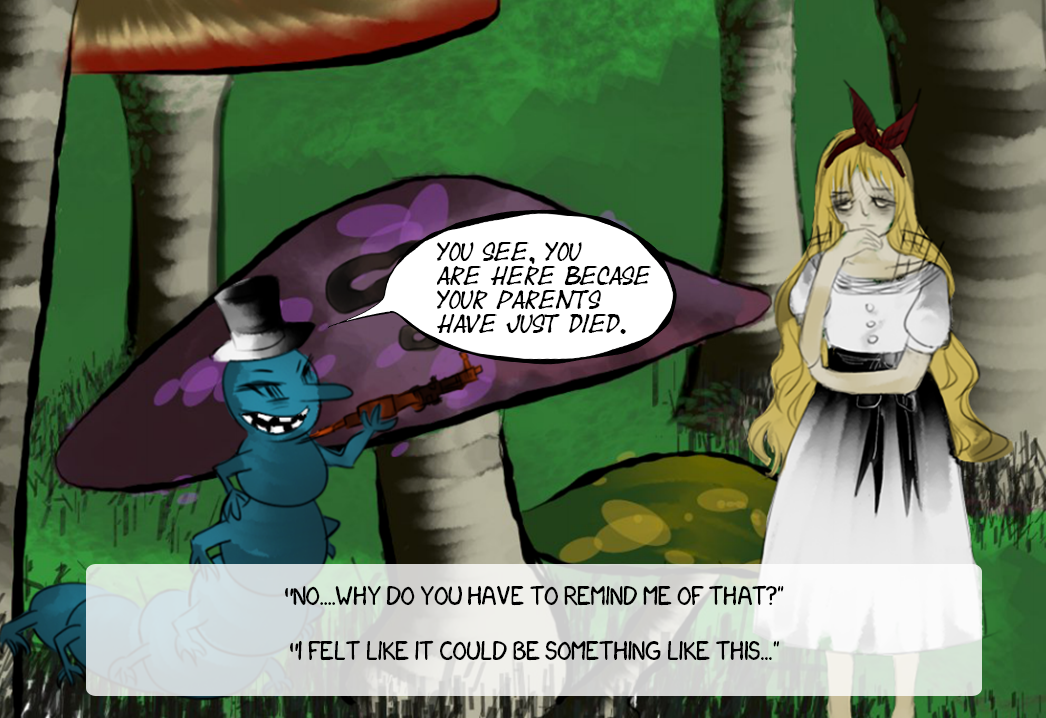
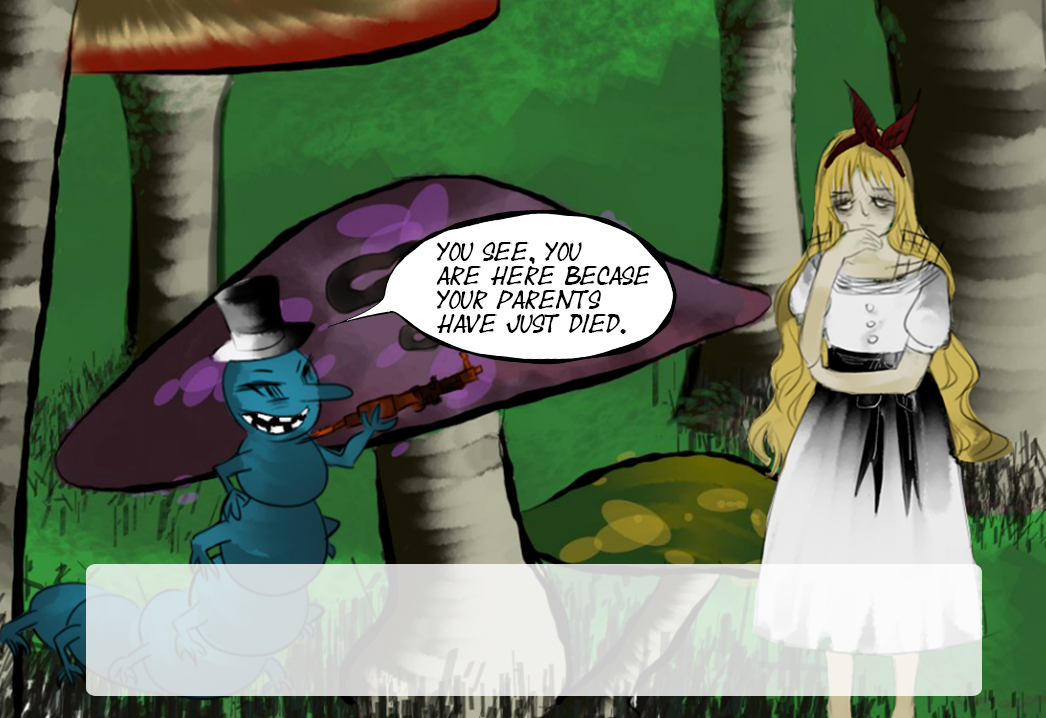
till panel 16

Changed region(s): [[0.2753, 0.7967, 0.7648, 0.8579], [0.2753, 0.8886, 0.7342, 0.9192]]

diff --git a/alice_14.html b/alice_14.html
@@ -13,7 +13,20 @@
 <body>
 	<div id="container" style="text-align:center">
 		<h1 class="title">- Alice In Wonderland -</h1>
-		<a href="alice_15.html"><img src="images/14.png" style="width:70%"></a>
+		<img src="images/14.png" style="width:70%">
+		<div id="responses">
+			<p class="response-1">"WHY YOU HAVE TO REMIND ME OF THAT?"</p>
+			<p class="response-2">"I FELT IT COULD BE SOMETHING LIKE THIS..."</p>
+		</div>
 	</div>
 </body>
+
+<script type="text/javascript">
+	$(".response-1").click(function() {
+		chooseOption(0, 15);
+	});
+	$(".response-2").click(function() {
+		chooseOption(0, 15);
+	});
+</script>
 </html>

diff --git a/css/style.css b/css/style.css
@@ -27,7 +27,7 @@
 .response-1 {
 	cursor: hand;
 	position: absolute;
-	top: 72%;
+	top: 71%;
 	margin-top: 5%;
 	width: 100%;
 	left: auto;
